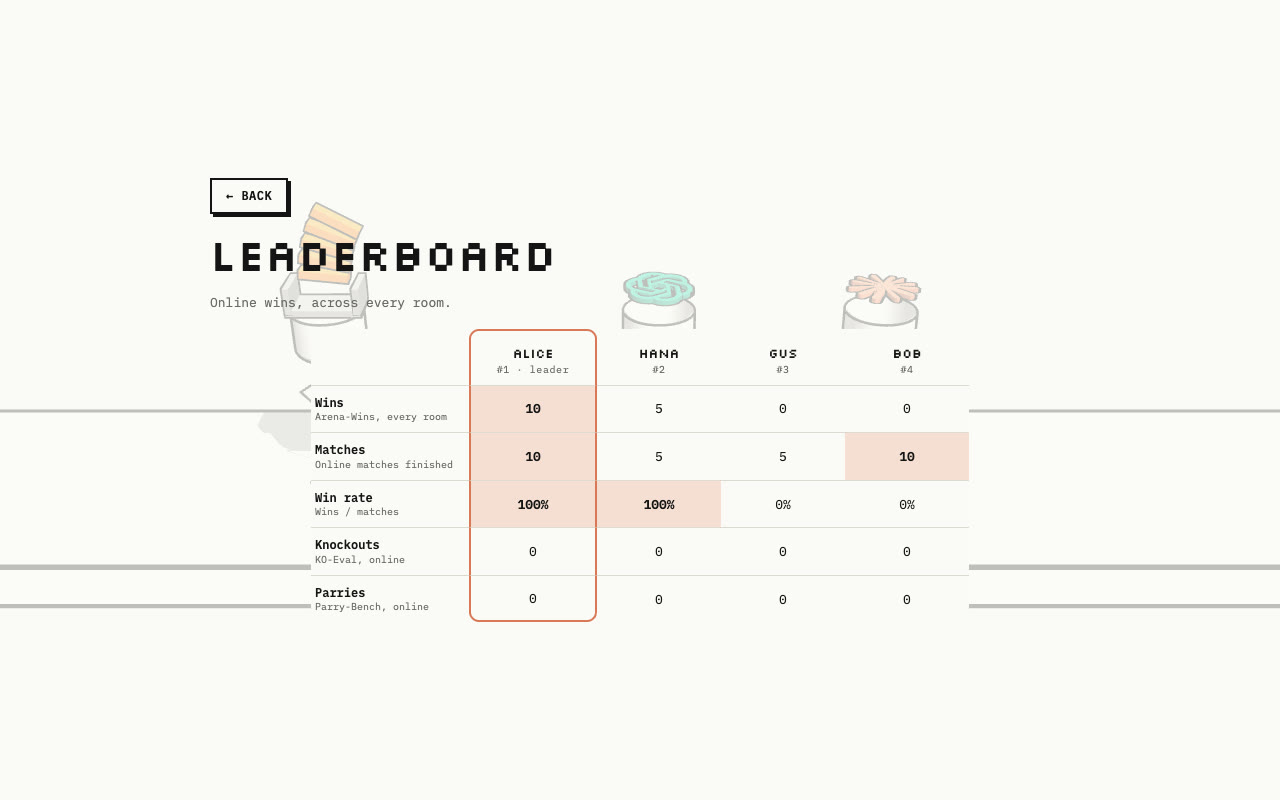
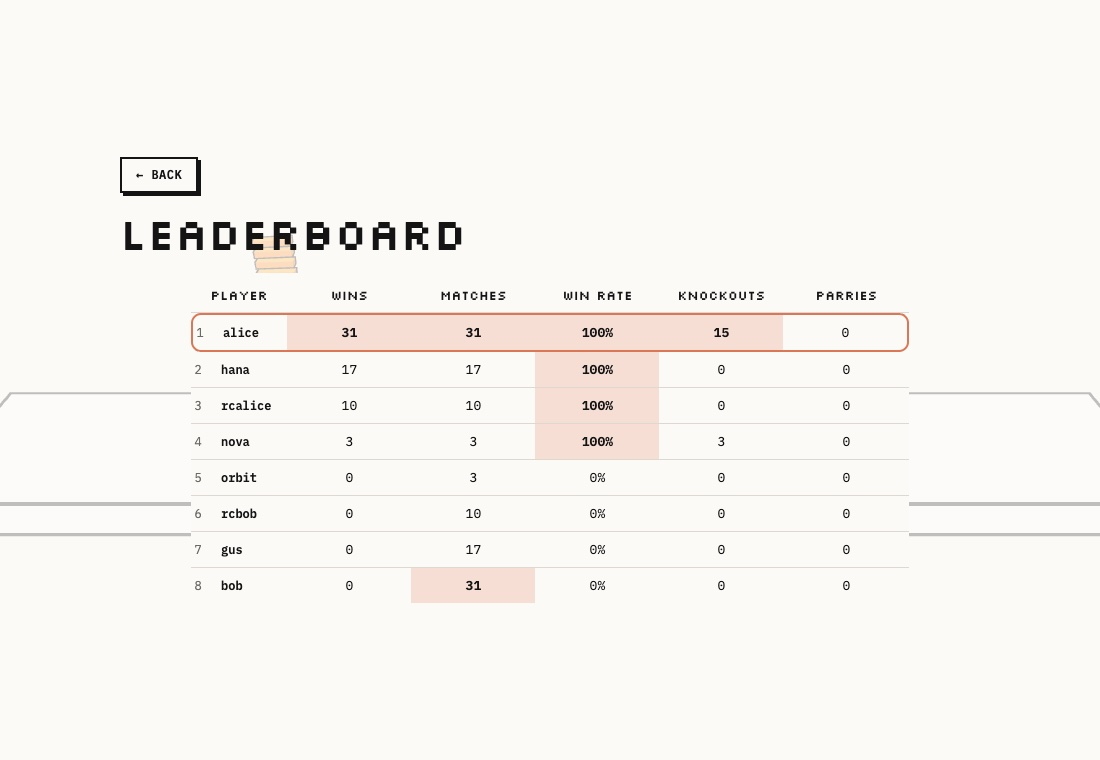
Menu without mode subtitles; leaderboard a row per player; new fighter blurbs
Implemented in this changeset:
- The main menu's modes are just their names (no subtitles)
- The leaderboard is transposed: a row per player (all 25 the server returns, growing downward) and a column per score, the leader's row outlined and the best in each column tinted; "Online wins, across every room" is gone
- Fighter blurbs: Claude "Load bearing character you'd be absolutely right to pick", ChatGPT "Can make you a millionaire in 30 days", Stack Overflow "Just make sure your question isn't a duplicate."
- play_test checks the new table; README and its leaderboard screenshot updated
- Deployed

My requests:
- "Honestyl just drop each copy subtitle I don't think I've ever read it / In the home page"
- "Transpose the leaderboard table, right now the rightward scaling doesn't make mcuh sense seeing how much players could end up being in the system"
- "\"Online wins, across every room\" drop that crap"
- "Change Claude subtitle rom \"Thinks in threes and fours.. Rays...\" to \"Load bearing character you'd be absolutely right to pick\""
- "ChatGPT: \"Can make you a millionaire in 30 days\""
- "\"Just make sure your question isn't a duplicate:\" -- stack overflow"
- "Why aren't we deploying / When we are making changes that don't impact play"

diff --git a/game/stick-standoff.html b/game/stick-standoff.html
@@ -130,9 +130,7 @@ body.two-players .corner { left: 50%; right: auto; transform: translateX(-50%); 
 .panel h1 { margin: 0; font-family: var(--display); font-weight: 400; font-size: clamp(24px, 5vw, 44px); line-height: 1; text-wrap: balance; }
 .panel .sub { margin: 0; color: var(--ink-soft); font-size: 13px; max-width: 60ch; }
 .modes { display: grid; grid-template-columns: 1fr; gap: 10px; max-width: 760px; }
-.mode { grid-template-columns: 170px minmax(0, 1fr); align-items: center; gap: 16px; padding: 14px 18px; }
-.mode span { color: var(--ink-soft); }
-@media (max-width: 560px) { .mode { grid-template-columns: 1fr; gap: 6px; } }
+.mode { grid-template-columns: 1fr; align-items: center; padding: 14px 18px; }      /* just the mode's name */
 /* the menu: the title centred over the modes, with the three real sites' logos turning in a triangle beside them
    (below them on a narrow screen) */
 #menu:not([hidden]) { display: flex; flex-direction: column; align-items: center; }
@@ -223,6 +221,12 @@ body.two-players .corner { left: 50%; right: auto; transform: translateX(-50%); 
 .bench tbody tr:last-child .win { border-bottom: 2px solid var(--win); border-radius: 0 0 10px 10px; }
 .bench tbody tr:last-child th, .bench tbody tr:last-child td { border-bottom: none; }
 .bench-note { font-size: 11px; color: var(--ink-soft); margin: 0; }
+/* the leaderboard: the same table turned on its side, a row per player, the leader's row outlined */
+.board-table tbody th { white-space: nowrap; }
+.board-table .rank { display: inline-block; min-width: 2.2em; color: var(--ink-soft); font-weight: 400; }
+.board-table tbody tr.lead > * { border-top: 2px solid var(--win); border-bottom: 2px solid var(--win); }
+.board-table tbody tr.lead > :first-child { border-left: 2px solid var(--win); border-radius: 10px 0 0 10px; }
+.board-table tbody tr.lead > :last-child { border-right: 2px solid var(--win); border-radius: 0 10px 10px 0; }
 .bench .short { display: none; }
 /* narrow screens: short fighter names, no benchmark subtitles, tighter cells, so it fits without scrolling */
 @media (max-width: 560px) {
@@ -483,9 +487,9 @@ body.two-players .corner { left: 50%; right: auto; transform: translateX(-50%); 
     <h1>Bot Battle</h1>
     <div class="menu-body">
     <div class="modes">
-      <button type="button" class="mode" data-mode="play"><h2>Play</h2><span>Play with CPUs or with friends on the same computer</span></button>
-      <button type="button" class="mode" data-mode="training"><h2>Training</h2><span>Play-test one fighter against dummies. Health refills and knockouts respawn.</span></button>
-      <button type="button" class="mode" data-mode="online" hidden><h2>Online</h2><span>Fight your friends. Make a room, share its code, and play.</span></button>
+      <button type="button" class="mode" data-mode="play"><h2>Play</h2></button>
+      <button type="button" class="mode" data-mode="training"><h2>Training</h2></button>
+      <button type="button" class="mode" data-mode="online" hidden><h2>Online</h2></button>
     </div>
     <nav class="brands" id="brands" aria-label="The real ones">
       <canvas id="brandCanvas"></canvas>
@@ -585,7 +589,7 @@ body.two-players .corner { left: 50%; right: auto; transform: translateX(-50%); 
   <div class="panel board">
     <div class="toprow"><button type="button" id="boardBack">&larr; Back</button></div>
     <h1>Leaderboard</h1>
-    <p class="sub" id="boardMsg">Online wins, across every room.</p>
+    <p class="sub" id="boardMsg" hidden></p>
     <div class="bench-wrap" id="boardTable"></div>
   </div>
 </div>
@@ -1223,7 +1227,7 @@ import ReconnectingWebSocket from 'partysocket/ws';
   const KITS = {
     so: {
       name: 'Stack Overflow', short: 'SO', color: '#f48024', jumps: 1, range: 4,
-      blurb: 'Angry, well-sourced, and already closed your question.',
+      blurb: 'Just make sure your question isn\'t a duplicate.',
       abilities: {
         a1: { name: 'Block shot', short: 'Block', cd: 0.06, desc: 'Fires blocks from the top of your stack. Hold to keep firing.' },
         a2: { name: 'Block whip', short: 'Whip', cd: 0.8, desc: 'Lashes your stack forward. Hold W to lash upward. Grabs ledges.' },
@@ -1233,7 +1237,7 @@ import ReconnectingWebSocket from 'partysocket/ws';
     },
     gpt: {
       name: 'ChatGPT', short: 'GPT', color: GPT_GREEN, jumps: 2, range: 5.5,
-      blurb: 'Borrows your body, eats your attacks, and compacts you.',
+      blurb: 'Can make you a millionaire in 30 days',
       abilities: {
         a1: { name: 'Computer use', short: 'Cursor', cd: 0.8, desc: 'Fires a cursor that chases the nearest enemy.' },
         a2: { name: 'Inhale', short: 'Inhale', cd: 3.5, desc: 'Sucks in enemies and their attacks. Builds context.' },
@@ -1244,7 +1248,7 @@ import ReconnectingWebSocket from 'partysocket/ws';
     },
     claude: {
       name: 'Claude', short: 'Claude', color: '#d97757', jumps: 2, range: 3,
-      blurb: 'Thinks in threes and fours. Has rays to spare.',
+      blurb: 'Load bearing character you\'d be absolutely right to pick',
       abilities: {
         a1: { name: 'Shoot', short: 'Shoot', cd: 0.12, desc: 'Fires the rays of your logo. Hold to keep firing.' },
         a2: { name: 'Fling', short: 'Fling', cd: 0.9, desc: 'Jabs one ray forward. It grows back.' },
@@ -5091,28 +5095,27 @@ import ReconnectingWebSocket from 'partysocket/ws';
   async function openBoard() {
     showScreen(boardEl);
     const msg = document.getElementById('boardMsg'), table = document.getElementById('boardTable');
-    msg.textContent = 'Loading…'; table.innerHTML = '';
+    msg.hidden = false; msg.textContent = 'Loading…'; table.innerHTML = '';
     try {
       const { players } = await fetch(`${API_BASE}/leaderboard`).then(r => r.ok ? r.json() : Promise.reject(new Error(r.status)));
       if (!players.length) { msg.textContent = 'Nobody has finished an online match yet. Win one and you’re first.'; return; }
-      // laid out like the results table (and a model announcement's benchmarks): the top players are the columns,
-      // the leader's outlined, and the best score in each row is tinted
-      const top = players.slice(0, 6);
-      msg.textContent = top.length < players.length ? `The top ${top.length} of ${players.length} players, by online wins.` : 'Online wins, across every room.';
-      const rows = [
-        { label: 'Wins', sub: 'Arena-Wins, every room', get: p => p.wins },
-        { label: 'Matches', sub: 'Online matches finished', get: p => p.matches },
-        { label: 'Win rate', sub: 'Wins / matches', get: p => p.matches ? Math.round(100 * p.wins / p.matches) : 0, fmt: v => v + '%' },
-        { label: 'Knockouts', sub: 'KO-Eval, online', get: p => p.kos },
-        { label: 'Parries', sub: 'Parry-Bench, online', get: p => p.parries },
+      // a row per player (however many there are, the table grows down) and a column per score: the leader's row
+      // outlined, and the best in each column tinted, like the results table
+      msg.hidden = true;
+      const cols = [
+        { label: 'Wins', short: 'Wins', get: p => p.wins },
+        { label: 'Matches', short: 'Played', get: p => p.matches },
+        { label: 'Win rate', short: 'Win %', get: p => p.matches ? Math.round(100 * p.wins / p.matches) : 0, fmt: v => v + '%' },
+        { label: 'Knockouts', short: 'KOs', get: p => p.kos },
+        { label: 'Parries', short: 'Parries', get: p => p.parries },
       ];
-      const head = top.map((p, i) => `<th scope="col" class="${i === 0 ? 'win' : ''}"><span class="long">${esc(p.name)}</span><span class="short" aria-hidden="true">${esc(p.name.slice(0, 6))}</span><small>#${i + 1}${i === 0 ? ' \u00b7 leader' : ''}</small></th>`).join('');
-      const body = rows.map(row => {
-        const vals = top.map(row.get), best = Math.max(...vals);
-        return `<tr><th scope="row">${row.label}<small>${row.sub}</small></th>${vals.map((v, i) =>
-          `<td class="${[i === 0 ? 'win' : '', vals.length > 1 && v === best && best > 0 ? 'best' : ''].join(' ')}">${row.fmt ? row.fmt(v) : v}</td>`).join('')}</tr>`;
-      }).join('');
-      table.innerHTML = `<table class="bench"><thead><tr><th></th>${head}</tr></thead><tbody>${body}</tbody></table>`;
+      const best = cols.map(c => Math.max(...players.map(c.get)));
+      const head = cols.map(c => `<th scope="col"><span class="long">${c.label}</span><span class="short" aria-hidden="true">${c.short}</span></th>`).join('');
+      const body = players.map((p, i) => `<tr class="${i === 0 ? 'lead' : ''}"><th scope="row"><span class="rank">${i + 1}</span>${esc(p.name)}</th>${cols.map((c, k) => {
+        const v = c.get(p);
+        return `<td class="${players.length > 1 && v === best[k] && v > 0 ? 'best' : ''}">${c.fmt ? c.fmt(v) : v}</td>`;
+      }).join('')}</tr>`).join('');
+      table.innerHTML = `<table class="bench board-table"><thead><tr><th scope="col">Player</th>${head}</tr></thead><tbody>${body}</tbody></table>`;
     } catch { msg.textContent = 'The leaderboard didn’t load. Try again in a moment.'; }
   }
 

diff --git a/public/games/botbattle/index.html b/public/games/botbattle/index.html
@@ -136,9 +136,7 @@ body.two-players .corner { left: 50%; right: auto; transform: translateX(-50%); 
 .panel h1 { margin: 0; font-family: var(--display); font-weight: 400; font-size: clamp(24px, 5vw, 44px); line-height: 1; text-wrap: balance; }
 .panel .sub { margin: 0; color: var(--ink-soft); font-size: 13px; max-width: 60ch; }
 .modes { display: grid; grid-template-columns: 1fr; gap: 10px; max-width: 760px; }
-.mode { grid-template-columns: 170px minmax(0, 1fr); align-items: center; gap: 16px; padding: 14px 18px; }
-.mode span { color: var(--ink-soft); }
-@media (max-width: 560px) { .mode { grid-template-columns: 1fr; gap: 6px; } }
+.mode { grid-template-columns: 1fr; align-items: center; padding: 14px 18px; }      /* just the mode's name */
 /* the menu: the title centred over the modes, with the three real sites' logos turning in a triangle beside them
    (below them on a narrow screen) */
 #menu:not([hidden]) { display: flex; flex-direction: column; align-items: center; }
@@ -229,6 +227,12 @@ body.two-players .corner { left: 50%; right: auto; transform: translateX(-50%); 
 .bench tbody tr:last-child .win { border-bottom: 2px solid var(--win); border-radius: 0 0 10px 10px; }
 .bench tbody tr:last-child th, .bench tbody tr:last-child td { border-bottom: none; }
 .bench-note { font-size: 11px; color: var(--ink-soft); margin: 0; }
+/* the leaderboard: the same table turned on its side, a row per player, the leader's row outlined */
+.board-table tbody th { white-space: nowrap; }
+.board-table .rank { display: inline-block; min-width: 2.2em; color: var(--ink-soft); font-weight: 400; }
+.board-table tbody tr.lead > * { border-top: 2px solid var(--win); border-bottom: 2px solid var(--win); }
+.board-table tbody tr.lead > :first-child { border-left: 2px solid var(--win); border-radius: 10px 0 0 10px; }
+.board-table tbody tr.lead > :last-child { border-right: 2px solid var(--win); border-radius: 0 10px 10px 0; }
 .bench .short { display: none; }
 /* narrow screens: short fighter names, no benchmark subtitles, tighter cells, so it fits without scrolling */
 @media (max-width: 560px) {
@@ -490,9 +494,9 @@ body.two-players .corner { left: 50%; right: auto; transform: translateX(-50%); 
     <h1>Bot Battle</h1>
     <div class="menu-body">
     <div class="modes">
-      <button type="button" class="mode" data-mode="play"><h2>Play</h2><span>Play with CPUs or with friends on the same computer</span></button>
-      <button type="button" class="mode" data-mode="training"><h2>Training</h2><span>Play-test one fighter against dummies. Health refills and knockouts respawn.</span></button>
-      <button type="button" class="mode" data-mode="online" hidden><h2>Online</h2><span>Fight your friends. Make a room, share its code, and play.</span></button>
+      <button type="button" class="mode" data-mode="play"><h2>Play</h2></button>
+      <button type="button" class="mode" data-mode="training"><h2>Training</h2></button>
+      <button type="button" class="mode" data-mode="online" hidden><h2>Online</h2></button>
     </div>
     <nav class="brands" id="brands" aria-label="The real ones">
       <canvas id="brandCanvas"></canvas>
@@ -592,7 +596,7 @@ body.two-players .corner { left: 50%; right: auto; transform: translateX(-50%); 
   <div class="panel board">
     <div class="toprow"><button type="button" id="boardBack">&larr; Back</button></div>
     <h1>Leaderboard</h1>
-    <p class="sub" id="boardMsg">Online wins, across every room.</p>
+    <p class="sub" id="boardMsg" hidden></p>
     <div class="bench-wrap" id="boardTable"></div>
   </div>
 </div>
@@ -1230,7 +1234,7 @@ import ReconnectingWebSocket from 'partysocket/ws';
   const KITS = {
     so: {
       name: 'Stack Overflow', short: 'SO', color: '#f48024', jumps: 1, range: 4,
-      blurb: 'Angry, well-sourced, and already closed your question.',
+      blurb: 'Just make sure your question isn\'t a duplicate.',
       abilities: {
         a1: { name: 'Block shot', short: 'Block', cd: 0.06, desc: 'Fires blocks from the top of your stack. Hold to keep firing.' },
         a2: { name: 'Block whip', short: 'Whip', cd: 0.8, desc: 'Lashes your stack forward. Hold W to lash upward. Grabs ledges.' },
@@ -1240,7 +1244,7 @@ import ReconnectingWebSocket from 'partysocket/ws';
     },
     gpt: {
       name: 'ChatGPT', short: 'GPT', color: GPT_GREEN, jumps: 2, range: 5.5,
-      blurb: 'Borrows your body, eats your attacks, and compacts you.',
+      blurb: 'Can make you a millionaire in 30 days',
       abilities: {
         a1: { name: 'Computer use', short: 'Cursor', cd: 0.8, desc: 'Fires a cursor that chases the nearest enemy.' },
         a2: { name: 'Inhale', short: 'Inhale', cd: 3.5, desc: 'Sucks in enemies and their attacks. Builds context.' },
@@ -1251,7 +1255,7 @@ import ReconnectingWebSocket from 'partysocket/ws';
     },
     claude: {
       name: 'Claude', short: 'Claude', color: '#d97757', jumps: 2, range: 3,
-      blurb: 'Thinks in threes and fours. Has rays to spare.',
+      blurb: 'Load bearing character you\'d be absolutely right to pick',
       abilities: {
         a1: { name: 'Shoot', short: 'Shoot', cd: 0.12, desc: 'Fires the rays of your logo. Hold to keep firing.' },
         a2: { name: 'Fling', short: 'Fling', cd: 0.9, desc: 'Jabs one ray forward. It grows back.' },
@@ -5098,28 +5102,27 @@ import ReconnectingWebSocket from 'partysocket/ws';
   async function openBoard() {
     showScreen(boardEl);
     const msg = document.getElementById('boardMsg'), table = document.getElementById('boardTable');
-    msg.textContent = 'Loading…'; table.innerHTML = '';
+    msg.hidden = false; msg.textContent = 'Loading…'; table.innerHTML = '';
     try {
       const { players } = await fetch(`${API_BASE}/leaderboard`).then(r => r.ok ? r.json() : Promise.reject(new Error(r.status)));
       if (!players.length) { msg.textContent = 'Nobody has finished an online match yet. Win one and you’re first.'; return; }
-      // laid out like the results table (and a model announcement's benchmarks): the top players are the columns,
-      // the leader's outlined, and the best score in each row is tinted
-      const top = players.slice(0, 6);
-      msg.textContent = top.length < players.length ? `The top ${top.length} of ${players.length} players, by online wins.` : 'Online wins, across every room.';
-      const rows = [
-        { label: 'Wins', sub: 'Arena-Wins, every room', get: p => p.wins },
-        { label: 'Matches', sub: 'Online matches finished', get: p => p.matches },
-        { label: 'Win rate', sub: 'Wins / matches', get: p => p.matches ? Math.round(100 * p.wins / p.matches) : 0, fmt: v => v + '%' },
-        { label: 'Knockouts', sub: 'KO-Eval, online', get: p => p.kos },
-        { label: 'Parries', sub: 'Parry-Bench, online', get: p => p.parries },
+      // a row per player (however many there are, the table grows down) and a column per score: the leader's row
+      // outlined, and the best in each column tinted, like the results table
+      msg.hidden = true;
+      const cols = [
+        { label: 'Wins', short: 'Wins', get: p => p.wins },
+        { label: 'Matches', short: 'Played', get: p => p.matches },
+        { label: 'Win rate', short: 'Win %', get: p => p.matches ? Math.round(100 * p.wins / p.matches) : 0, fmt: v => v + '%' },
+        { label: 'Knockouts', short: 'KOs', get: p => p.kos },
+        { label: 'Parries', short: 'Parries', get: p => p.parries },
       ];
-      const head = top.map((p, i) => `<th scope="col" class="${i === 0 ? 'win' : ''}"><span class="long">${esc(p.name)}</span><span class="short" aria-hidden="true">${esc(p.name.slice(0, 6))}</span><small>#${i + 1}${i === 0 ? ' \u00b7 leader' : ''}</small></th>`).join('');
-      const body = rows.map(row => {
-        const vals = top.map(row.get), best = Math.max(...vals);
-        return `<tr><th scope="row">${row.label}<small>${row.sub}</small></th>${vals.map((v, i) =>
-          `<td class="${[i === 0 ? 'win' : '', vals.length > 1 && v === best && best > 0 ? 'best' : ''].join(' ')}">${row.fmt ? row.fmt(v) : v}</td>`).join('')}</tr>`;
-      }).join('');
-      table.innerHTML = `<table class="bench"><thead><tr><th></th>${head}</tr></thead><tbody>${body}</tbody></table>`;
+      const best = cols.map(c => Math.max(...players.map(c.get)));
+      const head = cols.map(c => `<th scope="col"><span class="long">${c.label}</span><span class="short" aria-hidden="true">${c.short}</span></th>`).join('');
+      const body = players.map((p, i) => `<tr class="${i === 0 ? 'lead' : ''}"><th scope="row"><span class="rank">${i + 1}</span>${esc(p.name)}</th>${cols.map((c, k) => {
+        const v = c.get(p);
+        return `<td class="${players.length > 1 && v === best[k] && v > 0 ? 'best' : ''}">${c.fmt ? c.fmt(v) : v}</td>`;
+      }).join('')}</tr>`).join('');
+      table.innerHTML = `<table class="bench board-table"><thead><tr><th scope="col">Player</th>${head}</tr></thead><tbody>${body}</tbody></table>`;
     } catch { msg.textContent = 'The leaderboard didn’t load. Try again in a moment.'; }
   }
 

diff --git a/tests/play_test.py b/tests/play_test.py
@@ -66,7 +66,8 @@ async def main():
         await pg.wait_for_function("document.querySelector('#boardTable table.bench') || /Nobody/.test(document.getElementById('boardMsg').textContent)", timeout=10000)
         await pg.wait_for_timeout(500); await pg.screenshot(path=f"{OUT}/play-6-leaderboard.png")
         if await pg.locator("#boardTable table.bench").count():
-            check("the leaderboard is a benchmark table (players as columns, the leader outlined)", await pg.locator("#boardTable thead th.win").count() == 1)
+            check("the leaderboard is a table with a row per player (the leader's outlined) and a column per score",
+                  await pg.locator("#boardTable tbody tr.lead").count() == 1 and await pg.locator("#boardTable thead th").count() == 6)
         else:
             check("an empty leaderboard says nobody has finished an online match yet", "Nobody" in await pg.text_content("#boardMsg"))
         check("no page errors", not errs, errs[:3])

diff --git a/README.md b/README.md
@@ -86,9 +86,9 @@ On mpts.ie the menu has an **Online** mode and a **Leaderboard**. (The copy publ
 - **Emotes:** six of them, sent as a number from 0 to 5, so there's no free text to moderate. They pop next to your name in the lobby, and over your fighter in a match (the smiley button on the right).
 - **Matches:** they open on the versus screen with everyone's names. The host's browser runs the match and decides knockouts, comebacks and the result. Every browser plays the match out with everyone's controls, and the host's positions, health and lives correct the others about 20 times a second. Keep the host's tab in front: a background tab pauses the match for everyone.
 - **Dropped connections:** the page reconnects by itself ([partysocket](https://github.com/cloudflare/partykit/tree/main/packages/partysocket)), signing in again each time, and shows "Connection lost. Reconnecting…" meanwhile. The room keeps a dropped player's seat, and their place in a match, for 30 seconds; the others see "… is reconnecting" over their fighter (with their keys let go) and "… is back" when they return, and the lobby shows them as reconnecting. After 30 seconds they count as gone, as if they'd left. A deploy restarts the server: everyone reconnects and the match carries on. Leaving the room (or closing the page) still leaves at once.
-- **Leaderboard:** wins, matches, knockouts and parries per player, across every room, recorded by the room when a match ends. It's laid out like the results table (and a model announcement's benchmarks): the top six players are the columns, the leader's outlined, and the best score in each row is tinted.
+- **Leaderboard:** wins, matches, knockouts and parries per player, across every room, recorded by the room when a match ends. It's a row per player (the top 25, so it grows downward however many play) and a column per score, styled like the results table: the leader's row outlined and the best in each column tinted.
 
-  ![The leaderboard as a benchmark table, with four test players from the local dev server](docs/screenshots/leaderboard.jpg)
+  ![The leaderboard, a row per player, with test players from the local dev server](docs/screenshots/leaderboard.jpg)
 
 The server is the same Worker that serves the page: each room is a Durable Object, and the leaderboard is a D1 database (both on Cloudflare's free plan). Rooms use WebSocket hibernation: Cloudflare holds the connections while a room sleeps (pings are answered without waking it), and the room keeps its seats, host, lives and match in storage, so it survives being unloaded or restarted. One alarm per room handles both the 30-second grace and deleting a room that's been empty for ten minutes.
 
@@ -345,4 +345,4 @@ BOTBATTLE_URL=http://localhost:5173/games/botbattle/ ~/projects/ShadowKit/.venv/
 BOTBATTLE_URL=http://localhost:5173/games/botbattle/ ~/projects/ShadowKit/.venv/bin/python tests/perf.py 10 --json perf.json
 ```
 
-`online_test.py` makes a room, refuses a wrong password, joins by password and by invite link, picks, readies, plays (both screens agree on positions and health), emotes, has a player leave, and checks the leaderboard. `split_test.py` plays User A against User B on a phone: the split screen, User B's pad and plates turned round at the top, the pads apart and in their own halves, each pad moving only its own fighter (User B's arrows the other way round), and the Menu clear of the plates. The tests share [`tests/bb.py`](tests/bb.py): the page address, checks and their tally, a headless Chromium that draws WebGL (SwiftShader), waits counted in game frames, the page's dev hooks and API, and `player()`: a signed-in player in a browser of their own, for the online tests. `perf.py` isn't a pass/fail test: it prints where a frame's time goes (see Performance above). `colours_test.py` picks Claude for two seats through the real screens on a phone and a desktop, and checks the second gets the other colour on the seat and in the match. `moves_test.py` records a fighter frame by frame: the burst when setting off, walking backwards when turning round (and a backwards jump and parry that face forward), the dash easing out, holding the shield up, and walking crouched behind it. `reconnect_test.py` drops a guest's and the host's connection mid-match (both come back, and controls and the host's state flow again) and cuts one for good (the fighter stays for the 30-second grace, then counts as gone). Restarting the dev server mid-match was checked by hand: both players reconnect within seconds and the match carries on. `casual_test.py` matches two players into one casual room and a third into another, starts the match once both are ready, and checks the punch and held guard reach the other player. `strike_test.py` walks while crouched (slower than walking) and lands a punch and a low kick with `H` alone, `R` for User A and `M` for User B. `camera_test.py` records the camera through a duel while User A jumps and counts jitter and snaps. `play_test.py` goes through Play: the seats, a colour, User B, removing and adding seats, both users' keys moving only their own fighter, the result, and the leaderboard's benchmark table (or, on a fresh database with no online matches yet, its message saying so). `visual_test.py` measures three things on the real page: ink blobs inside the OpenAI and Claude logos, arms going into heads during the versus gestures, and controls cut off by a phone's rounded corners (55px, with no safe area reported). `invite_test.py` checks that an invite opened while signed out survives signing up and lands you in the room. `signin_return_test.py` checks that a page loaded afresh partway through signing in (back from Google, or a sign-up finished from its email) comes back to the Online screen, and that it doesn't once you've gone back to the menu. `grab_test.py` plays User A against User B: a grab through a held shield, the forward throw (8 damage, landing well ahead) and the backward one (10, landing behind), letting go dropping them unhurt, a miss leaving the grabber stuck for about 0.6 s, a fighter grabbed at the very edge staying in the hands (it used to snap onto the ledge), the backward throw going over the thrower's head and down behind in an arc, and `N` as User B's grab. `touch_test.py` uses the touch pad with real touch events on a phone held upright: the pad stays hidden while the page loads, every icon is drawn, ▲ jumps, the joypad's bottom corners crouch and walk, a thumb sliding across it changes direction, keeps it off the box and does nothing in the middle, the shield parries to the side when tapped and overhead when swiped up from, the punch button shows a boot while crouched, the hand grabs, and the joypad and every button are on screen, the actions in their two rows, without overlapping. `ko_test.py` checks that only the host knocks anyone out, that comebacks and the result reach every screen, and that the win is recorded.
+`online_test.py` makes a room, refuses a wrong password, joins by password and by invite link, picks, readies, plays (both screens agree on positions and health), emotes, has a player leave, and checks the leaderboard. `split_test.py` plays User A against User B on a phone: the split screen, User B's pad and plates turned round at the top, the pads apart and in their own halves, each pad moving only its own fighter (User B's arrows the other way round), and the Menu clear of the plates. The tests share [`tests/bb.py`](tests/bb.py): the page address, checks and their tally, a headless Chromium that draws WebGL (SwiftShader), waits counted in game frames, the page's dev hooks and API, and `player()`: a signed-in player in a browser of their own, for the online tests. `perf.py` isn't a pass/fail test: it prints where a frame's time goes (see Performance above). `colours_test.py` picks Claude for two seats through the real screens on a phone and a desktop, and checks the second gets the other colour on the seat and in the match. `moves_test.py` records a fighter frame by frame: the burst when setting off, walking backwards when turning round (and a backwards jump and parry that face forward), the dash easing out, holding the shield up, and walking crouched behind it. `reconnect_test.py` drops a guest's and the host's connection mid-match (both come back, and controls and the host's state flow again) and cuts one for good (the fighter stays for the 30-second grace, then counts as gone). Restarting the dev server mid-match was checked by hand: both players reconnect within seconds and the match carries on. `casual_test.py` matches two players into one casual room and a third into another, starts the match once both are ready, and checks the punch and held guard reach the other player. `strike_test.py` walks while crouched (slower than walking) and lands a punch and a low kick with `H` alone, `R` for User A and `M` for User B. `camera_test.py` records the camera through a duel while User A jumps and counts jitter and snaps. `play_test.py` goes through Play: the seats, a colour, User B, removing and adding seats, both users' keys moving only their own fighter, the result, and the leaderboard's table, a row per player (or, on a fresh database with no online matches yet, its message saying so). `visual_test.py` measures three things on the real page: ink blobs inside the OpenAI and Claude logos, arms going into heads during the versus gestures, and controls cut off by a phone's rounded corners (55px, with no safe area reported). `invite_test.py` checks that an invite opened while signed out survives signing up and lands you in the room. `signin_return_test.py` checks that a page loaded afresh partway through signing in (back from Google, or a sign-up finished from its email) comes back to the Online screen, and that it doesn't once you've gone back to the menu. `grab_test.py` plays User A against User B: a grab through a held shield, the forward throw (8 damage, landing well ahead) and the backward one (10, landing behind), letting go dropping them unhurt, a miss leaving the grabber stuck for about 0.6 s, a fighter grabbed at the very edge staying in the hands (it used to snap onto the ledge), the backward throw going over the thrower's head and down behind in an arc, and `N` as User B's grab. `touch_test.py` uses the touch pad with real touch events on a phone held upright: the pad stays hidden while the page loads, every icon is drawn, ▲ jumps, the joypad's bottom corners crouch and walk, a thumb sliding across it changes direction, keeps it off the box and does nothing in the middle, the shield parries to the side when tapped and overhead when swiped up from, the punch button shows a boot while crouched, the hand grabs, and the joypad and every button are on screen, the actions in their two rows, without overlapping. `ko_test.py` checks that only the host knocks anyone out, that comebacks and the result reach every screen, and that the win is recorded.
